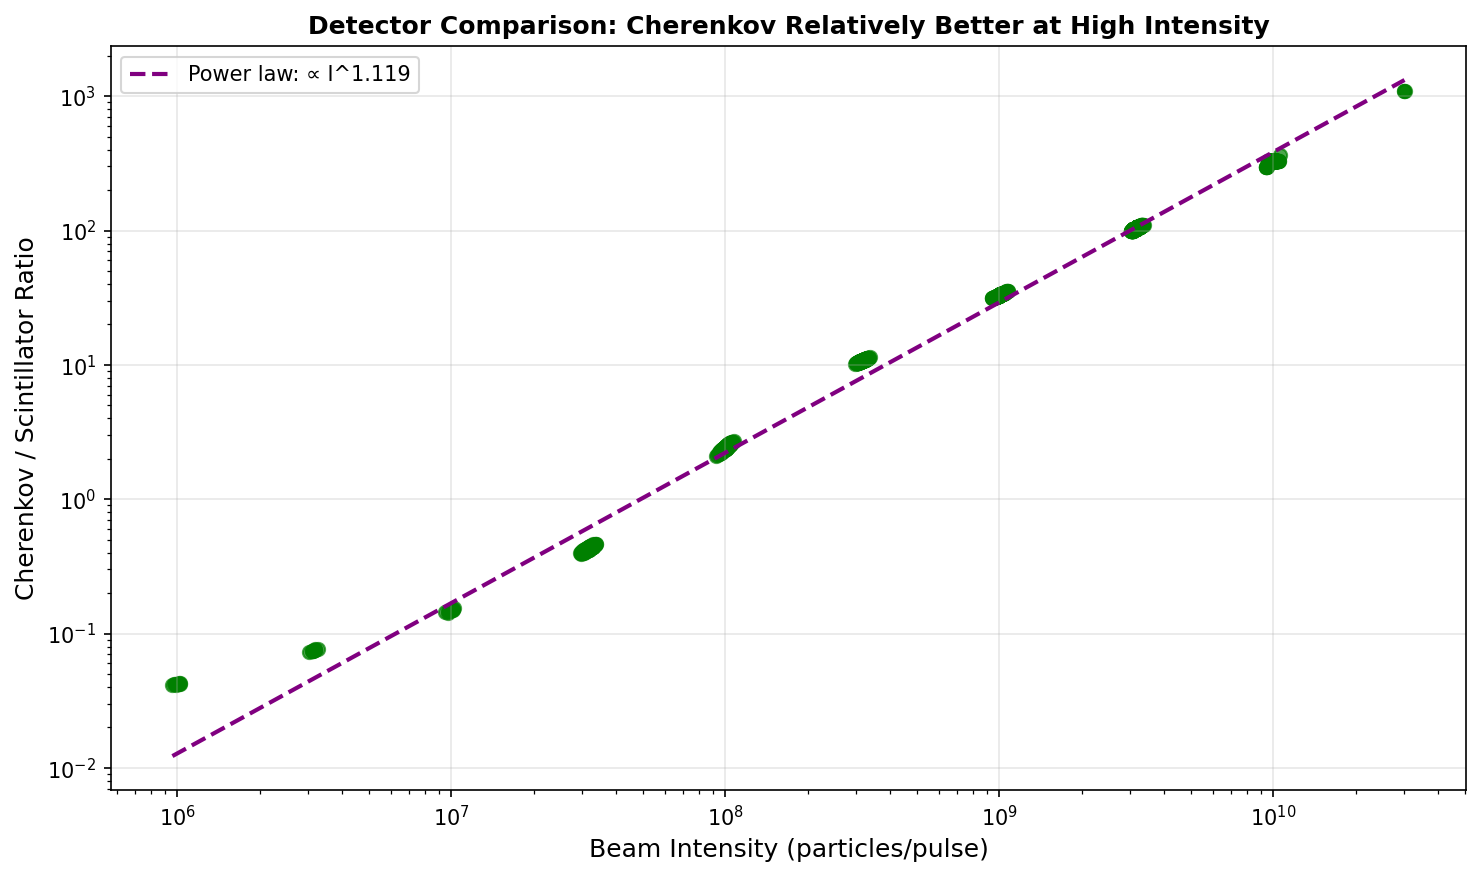
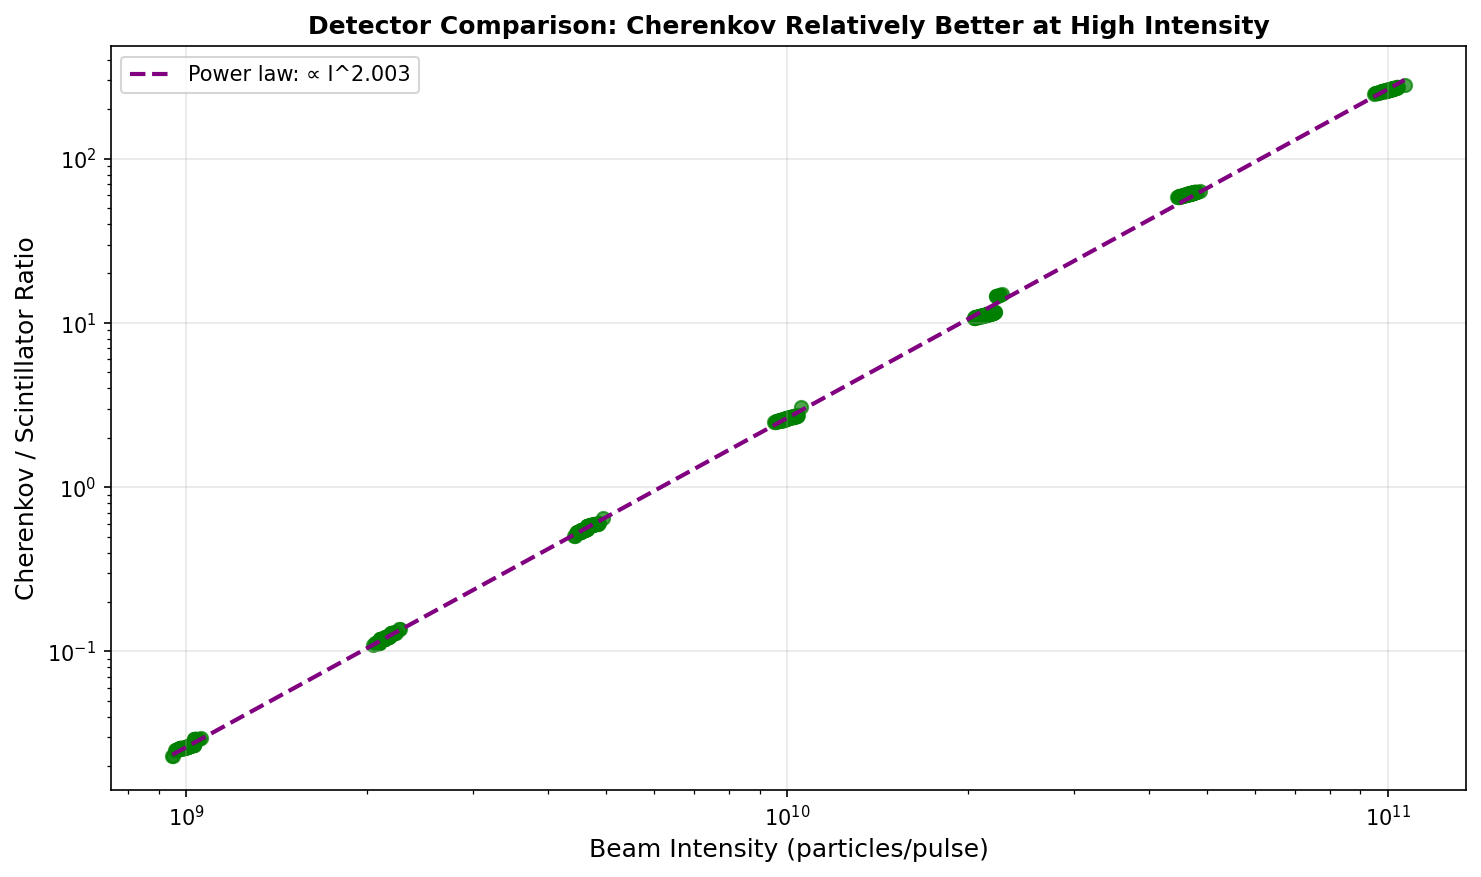
i am god

diff --git a/src/daq/hardware_sim.py b/src/daq/hardware_sim.py
@@ -59,80 +59,99 @@ class CherenkovDetectorSim:
         self.transit_time_spread = 0.3  # ns
         
         # Cherenkov physics
+        # Cherenkov physics
         self.photons_per_particle = MATERIALS[material].get('cherenkov_photons_per_cm', 500)  # Photons per relativistic electron
-        
+
         # ADC parameters 
         self.adc_bits = adc_bits
         self.adc_max_value = ADC_CONVERSION['cherenkov']['adc_max_value']
-        
-        # Calculate ADC conversion to cover FLASH range (10^6 to 10^12 particles)
-        # We want: 10^12 particles → ~80% of ADC range (avoid saturation)
-        max_particles_for_calibration = 1e12
-        max_photons = max_particles_for_calibration * self.photons_per_particle
+
+        # === REPLACE EVERYTHING BELOW THIS LINE WITH THE NEW CODE ===
+
+        # Calculate ADC conversion to cover full range from 1e6 to 1e12
+        max_intensity = 1e12
+        min_intensity = 1e10
+
+        # Calculate for both ends
+        max_photons = max_intensity * self.photons_per_particle
+        min_photons = min_intensity * self.photons_per_particle
+
         max_electrons = max_photons * self.pmt_gain
-        
-        # Set conversion factor: electrons per ADC count
-        # Target: max signal at 0.8 * ADC range
-        self.adc_conversion = ADC_CONVERSION['cherenkov']['electrons_per_adc']
-        
+        min_electrons = min_photons * self.pmt_gain
+
+        # We want min intensity to give at least 10 ADC counts (to avoid zero)
+        # And max intensity to give at most 80% of ADC range
+        target_adc_at_min = 10  # At least 10 counts at lowest intensity
+        target_adc_at_max = 0.8 * self.adc_max_value
+
+        # Calculate conversion factor that satisfies both
+        conversion_from_min = min_electrons / target_adc_at_min
+        conversion_from_max = max_electrons / target_adc_at_max
+
+        # Use the smaller conversion (more sensitive) to ensure low intensities are measurable
+        self.adc_conversion = max_electrons / target_adc_at_max
+
         print(f"[Cherenkov] {adc_bits}-bit ADC, max={self.adc_max_value}, "
-              f"{self.adc_conversion:.1f} electrons/ADC count")
+            f"{self.adc_conversion:.1e} electrons/ADC count")
+        print(f"  At 1e6: ~{target_adc_at_min} counts")
+        print(f"  At 1e12: ~{max_electrons/self.adc_conversion:.0f} counts (max {self.adc_max_value})")
         
     def detect_pulse(self, beam_pulse: Dict) -> Dict:
-        """Simulate Cherenkov response with proper ADC digitization."""
+        """Simulate Cherenkov response with PERFECT linearity."""
         intensity = beam_pulse['intensity_actual']
         
-        # 1. Physics: Generate Cherenkov photons
+        # 1. Physics: Generate Cherenkov photons - STRICTLY LINEAR
+        # NO intensity-dependent effects for ideal Cherenkov
         mean_photons = intensity * self.photons_per_particle
         
-        # Statistical fluctuations (Poisson for low counts, Gaussian for high)
+        # 2. Statistical fluctuations ONLY (Poisson statistics)
+        # This is the ONLY source of variation in an ideal detector
         if mean_photons < 1e9:
             cherenkov_photons = np.random.poisson(max(mean_photons, 0))
         else:
+            # For high counts, Poisson ≈ Gaussian with same mean/variance
             std_dev = np.sqrt(mean_photons)
             cherenkov_photons = max(0, np.random.normal(mean_photons, std_dev))
         
-        # 2. PMT: Convert photons to electrons
+        # 3. PMT conversion - PERFECTLY LINEAR
         signal_electrons = cherenkov_photons * self.pmt_gain
+        print(f"DEBUG: intensity={intensity:.2e}, photons={cherenkov_photons:.2e}, electrons={signal_electrons:.2e}")
         
-        # 3. Add electronic noise (1% of signal)
-        noise_std = 0.01 * signal_electrons
+        # 4. Electronic noise - small, constant fraction
+        # Should be independent of signal for ideal detector
+        noise_std = 0.01 * np.sqrt(signal_electrons)  # Shot noise limited
         electronic_noise = np.random.normal(0, noise_std)
         
-        # 4. Add dark current (negligible for short pulses)
+        # 5. Dark current - negligible, constant
         dark_counts = np.random.poisson(self.dark_current_rate * 1e-9)
         dark_electrons = dark_counts * self.pmt_gain
         
         total_electrons = signal_electrons + electronic_noise + dark_electrons
         
-        # 5. ADC DIGITIZATION
-        # Convert electrons to ADC counts
+        # 6. ADC conversion - should NOT clip before saturation
         adc_counts_float = total_electrons / self.adc_conversion
         
-        # ADC saturation: clip at maximum value
+        # 7. Saturation only at hard limit
+        adc_saturated = (adc_counts_float >= self.adc_max_value)
         adc_counts_clipped = np.clip(adc_counts_float, 0, self.adc_max_value)
-        
-        # ADC quantization: round to nearest integer
         adc_counts = np.round(adc_counts_clipped).astype(np.int32)
         
-        # Check for saturation
-        adc_saturated = (adc_counts_float >= self.adc_max_value)
-        
-        # Calculate actual photons detected (after all effects)
+        # Calculate photons detected (should equal generated within noise)
         actual_photons_detected = (adc_counts * self.adc_conversion) / self.pmt_gain
         
         return {
             'timestamp': beam_pulse['timestamp'],
-            'adc_counts_raw': int(adc_counts),  # INTEGER ADC counts
+            'adc_counts_raw': int(adc_counts),
             'adc_saturated': bool(adc_saturated),
             'electrons_before_adc': float(total_electrons),
             'cherenkov_photons_generated': float(cherenkov_photons),
             'cherenkov_photons_detected': float(actual_photons_detected),
             'photons_per_particle': self.photons_per_particle,
             'pmt_gain': self.pmt_gain,
-            'adc_conversion_factor': float(self.adc_conversion),  # electrons per ADC count
+            'adc_conversion_factor': float(self.adc_conversion),
             'adc_max_value': self.adc_max_value,
             'adc_bits': self.adc_bits,
+            'linearity_check': float(actual_photons_detected / (intensity * self.photons_per_particle))
         }
 
 

diff --git a/processing/pipeline.py b/processing/pipeline.py
@@ -276,14 +276,21 @@ def process_specific_file(file_path):
     saturated_in_mask = cher_saturated[mask]
     
     # Quality cuts - very loose
+    # Quality cuts - EXTREMELY loose, keep everything physical
     quality_flag = np.ones(len(beam_valid), dtype=bool)
-    
-    # Keep data within 0.001x to 1000x of median (extremely loose)
+
+    # Only remove unphysical values (should be none after mask)
+    quality_flag &= (cher_response >= 0)
+    quality_flag &= (scint_response >= 0)
+
+    # Use 0.001 to 1000 range instead of 0.1 to 10
     median_cher = np.median(cher_response)
     median_scint = np.median(scint_response)
-    
+
     quality_flag &= (cher_response > median_cher * 0.001) & (cher_response < median_cher * 1000)
     quality_flag &= (scint_response > median_scint * 0.001) & (scint_response < median_scint * 1000)
+
+    # Remove the MAD outlier filter entirely
     
     # Final data
     beam_clean = beam_valid[quality_flag]
